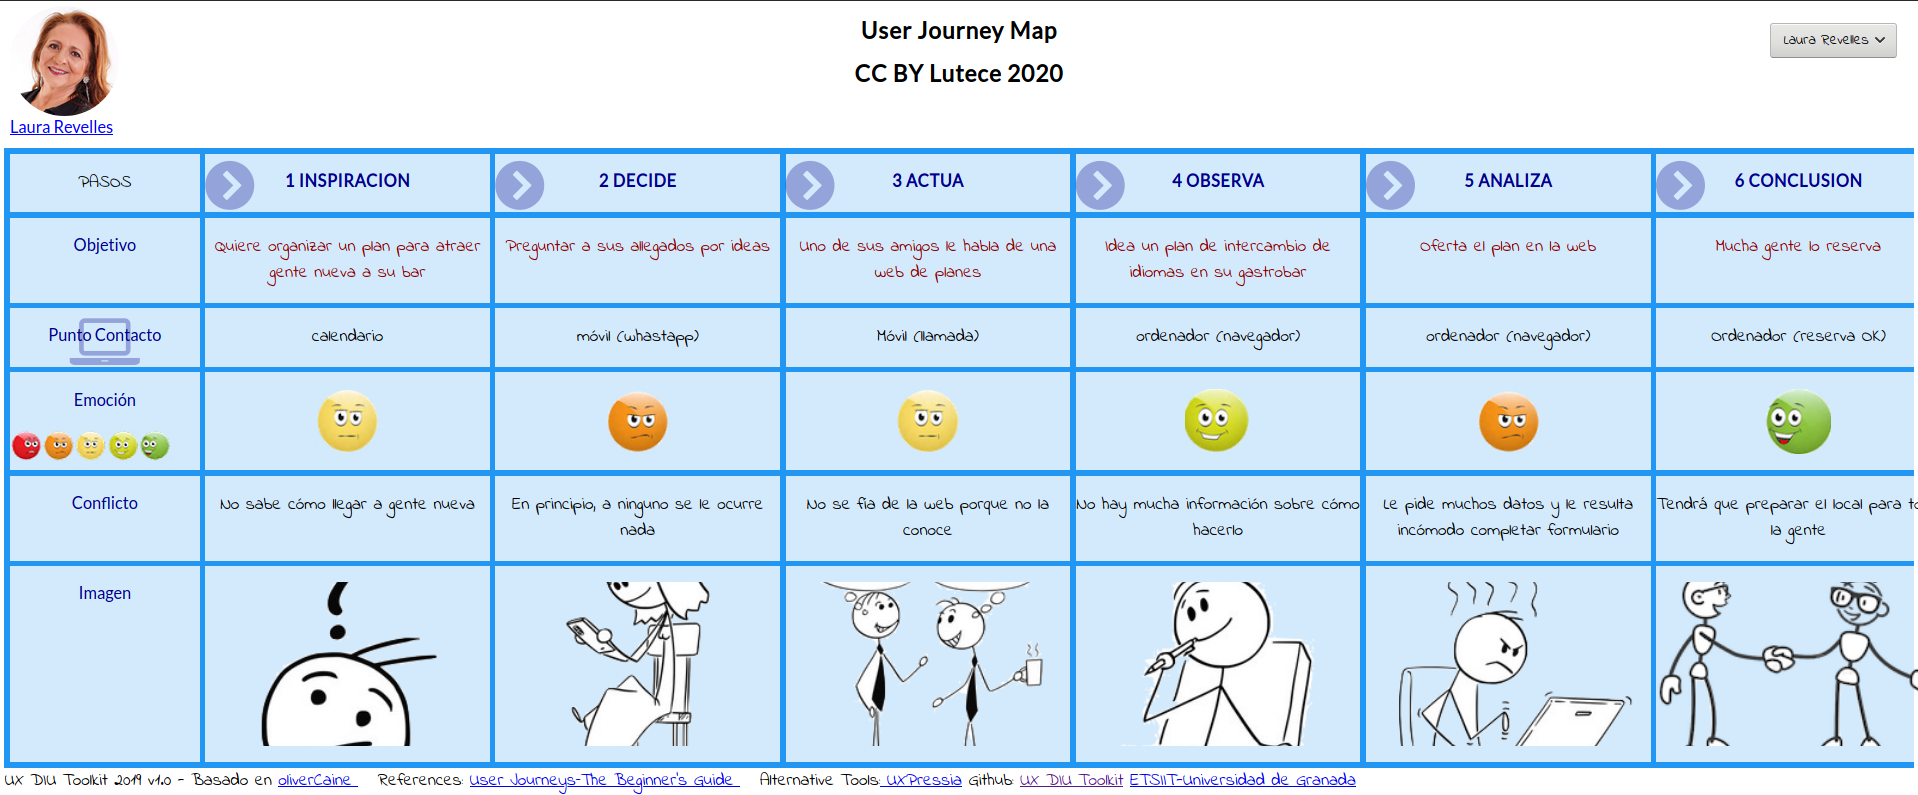
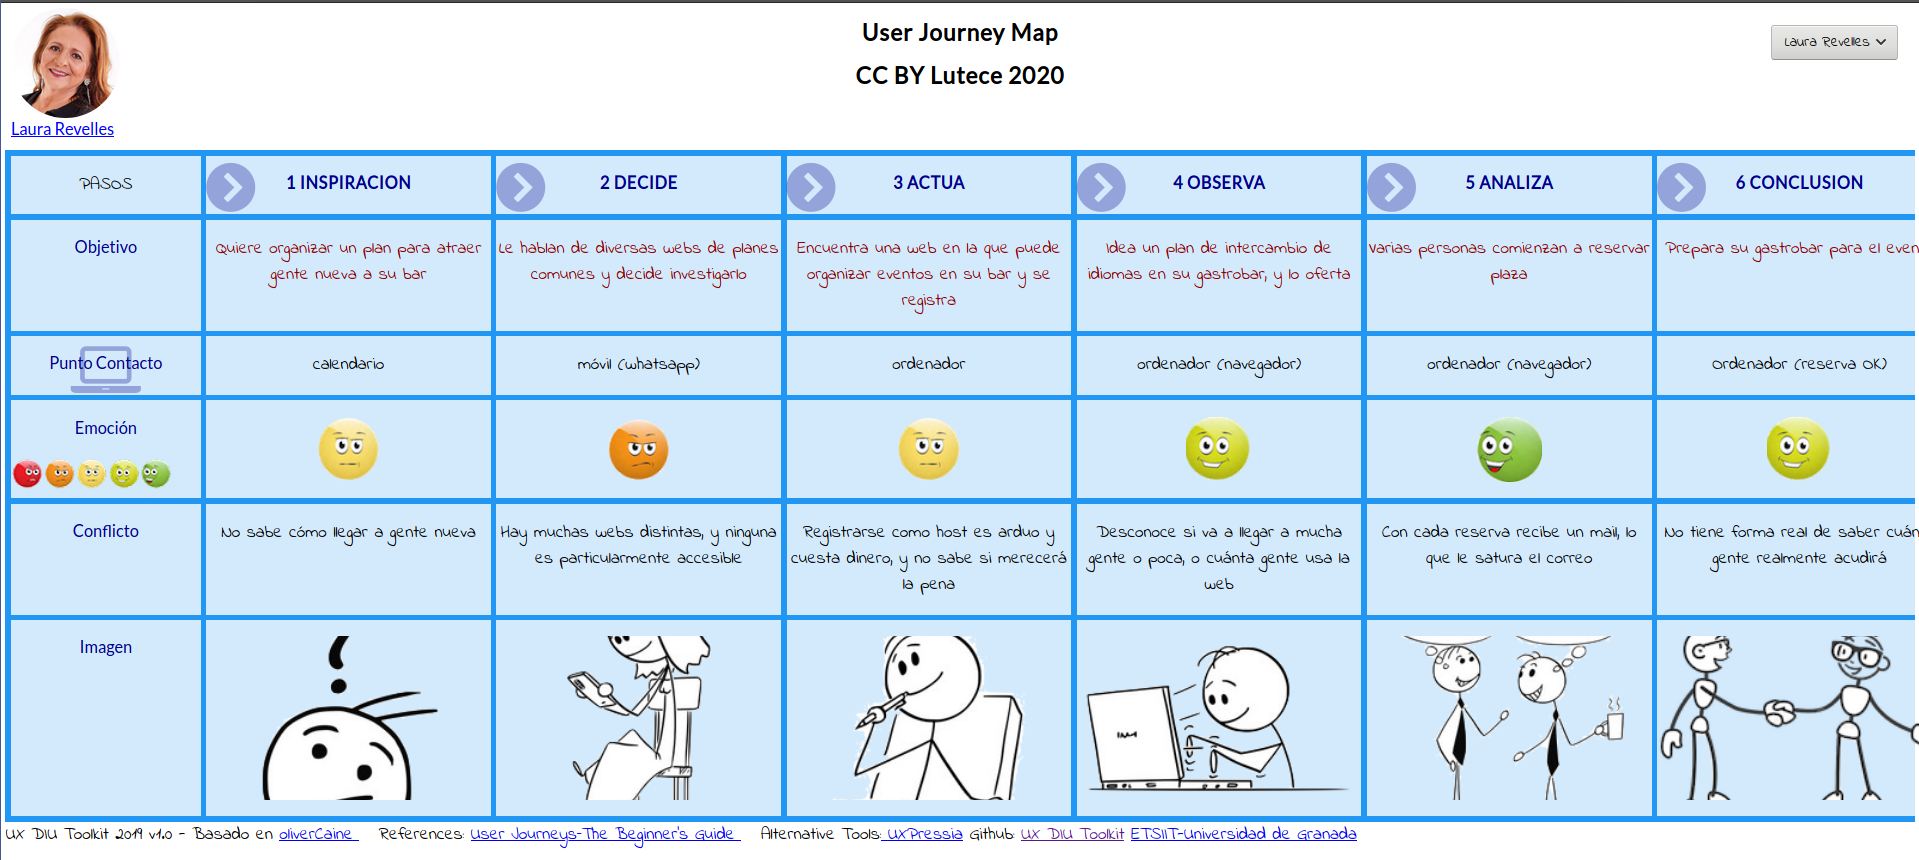
Informe de usabilidad

Changed region(s): [[0.0, 0.0, 1.0, 0.9962]]

diff --git a/P1/README.md b/P1/README.md
@@ -50,3 +50,48 @@ La que hemos elegido en nuestro caso es MeetUp ya que las experiencias son varia
 ----
 ![Journey Map 1](img/JourneyMap1.png)
 ![Journey Map 2](img/JourneyMap2.png)
+
+![Método UX](../img/usabilityReview.png) 1.d Usability Review
+----
+
+Una vez hecho la revisión y dada la puntuación, desglosaremos el funcionamiento en los siguientes puntos:
+
+#### Caracteristicas y Funcionalidad
+
+En general, todo está bien. Todo cumple con los flujos de procedimientos, y sus consiguientes metas y objetivos. Las llamadas a la acción son claras y etiquetadas (quitando algún enlace con tonos grises). Lo unico malo es que no se adapta este diseño a personas expertas, haciendo que pase por el mismo flujo que un novato.
+
+#### Página de inicio
+
+El orden de la landing page está bien, pero quizás debería cambiarse algunos elementos del orden, y eliminar otros.
+
+#### Navegación
+
+Es un punto fuerte de la página. Se puede buscar desde los navegadores tradicionales, y tiene una URL sencilla. Las secciones se pueden entender fácilmente (sobre todo si sabes inglés). Quitando eso, cada evento tiene una id, cosa que es entendible ya que dos eventos iguales podrían causar errores en la lógica de la aplicación.
+
+#### Búsqueda
+
+Es un gran punto débil. La búsqueda por keywords va un poco "de aquella manera", es decir, que los resultados varían según le des a buscar con una misma keyword, y es exclusivo de cuentas registradas. La búsqueda avanzada se basa en categorías con algunas etiquetas que no dan el mensaje correctamente, y que hay pocas opciones de filtrado más, si bien son las esenciales. Echaríamos en falta, por ejemplo, el filtrado por precio.
+
+#### Control y feedback
+
+El feedback general está bien, lo unico malo es que no se pueden deshacer acciones con volver atrás. Se debe ir a un botón desaturado y ver las opciones en un desplegable.
+
+#### Formularios
+
+No hay mucho que comentar. La información que piden es relevante y mínima, suficiente para hacer las gestiones.
+
+#### Errores
+
+Estos se definen de forma clara, sin códigos extraños para novatos *(404, 403 Forbidden...)*, sino lo que pasa y qué hacer. Se puede volver atrás o volver a la landing page desde allí.
+
+#### Contenido y texto
+
+Etá bastante bien, pero como se dijo anteriormente, hay etiquetas que no representan bien las categorías; y que no permiten imprimir las cosas correctamente (no hay una página de impresión o si imprimes tal documento todo se descoloca.)
+
+#### Ayuda
+
+MeetUp posee un centro de ayuda tanto para hosts como para asistentes. Además de ello, hay un soporte en línea para que los usuarios hagan cualquier pregunta.
+
+#### Rendimiento
+
+La web responde rápidamente y sin problemas, desde cualquier dispositivo, además de su app. 

diff --git a/README.md b/README.md
@@ -26,7 +26,8 @@ Qué es economia colaborativa: Martínez-Polo, J. (2019). **El fenómeno del con
 ![Método UX](img/Competitive.png) 1.a Competitive Analysis
 -----
 
-???
+Se ha estudiado tres páginas relacionadas con el tema (MeetUp, Eatwith y Artery) y se ha visto que en general son páginas de ocio donde los *hosts* hacen *eventos* en un lugar concreto y permite que la 
+gente se apunte.Dan toda la información sobre el evento, quien lo lleva y quien asiste. Elegimos MeetUp al final por la completitud de opciones que trae. 
 
 ![Método UX](img/Persona.png) 1.b Persona
 -----
@@ -37,12 +38,15 @@ Qué es economia colaborativa: Martínez-Polo, J. (2019). **El fenómeno del con
 ----
 
 Hemos escogido estas dos experiencias de usuario por ser opuestas, a saber, por un lado la de alguien que desea publicar una actividad, y por otro, alguien que busca realizarla.
+*Travis*: Busca un plan para salir por la zona.
+*Laura*: Trata de usar su local para hacer eventos.
 
 ![Método UX](img/usabilityReview.png) 1.d Usability Review
 ----
 
 [Enlace al Usability Review en Excel](https://github.com/IvanitiX/DIU20/blob/master/P1/Usability-review-template.xlsx)
-**Valoración** : 78. *En general, la experiencia es muy buena, pero a la hora de buscar las actividades, no hay muchas opciones de búsqueda, o están mal etiquetadas en el caso de algunas categorías, y no hay muchas diferencias entre la experiencia de un nuevo usuario y la de un experto de la página.*
+**Valoración** : 78. 
+*En general, la experiencia es muy buena, es una página muy completa y bastante user-friendly. Pero a la hora de buscar las actividades, no hay muchas opciones de búsqueda, hay categorías malamente etiquetadas , y no permite hacer cosas más avanzadas y rápidas para usuarios expertos. Nuestras personas, en general, podrían navegar por la página sin muchas dificultades.*
 
 ## Paso 2. UX Design  
 
